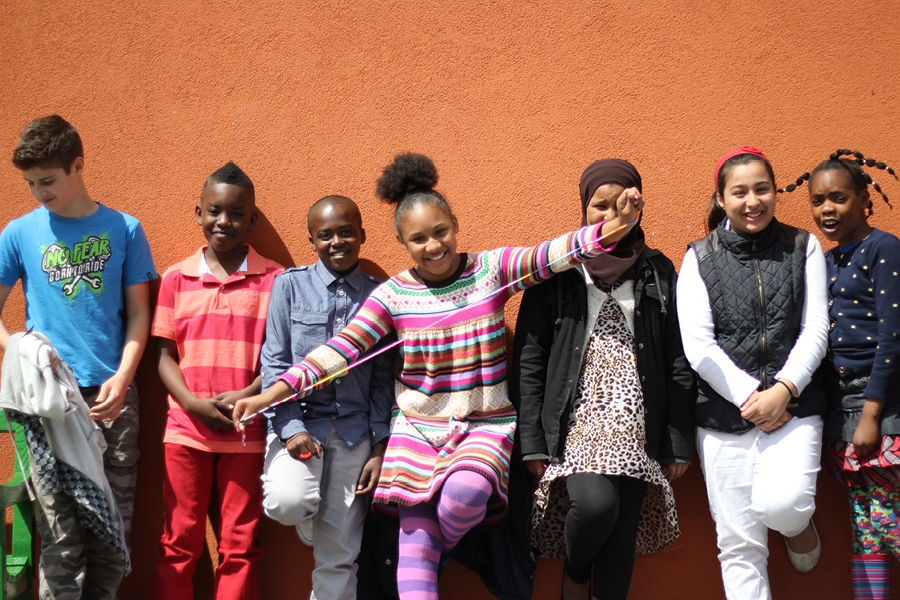
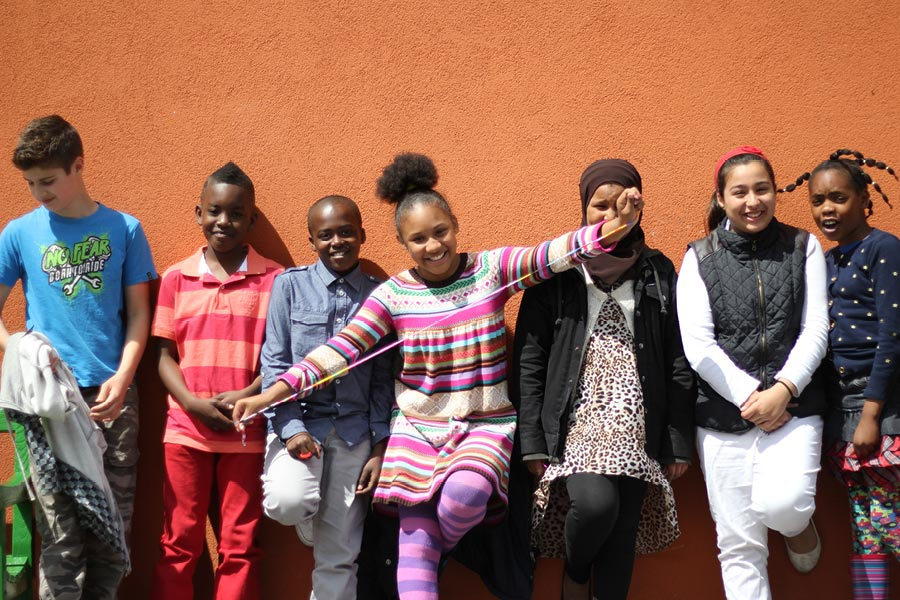
Optimise images

diff --git a/index.html b/index.html
@@ -4,7 +4,7 @@
 
 <head>
 
-	<title>Tom Williams &mdash; Graphic Designer</title>
+	<title>Williams&amp;Co Design &mdash; Brand and design services</title>
 
   <meta name="viewport" content="width=device-width; initial-scale=1.0;">
 
@@ -38,8 +38,8 @@
       <div class="container">
         <div class="col-4">
           <p>
-          Williams&amp;Co Design<br>
-          Bristol-based brand and design<br>
+          Williams&amp;Co<br>
+          Brand and design services<br>
           </p>
         </div>
         <div class="col-4">
